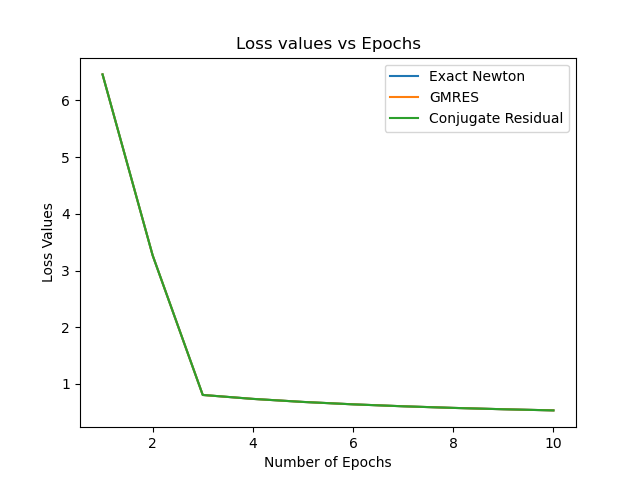
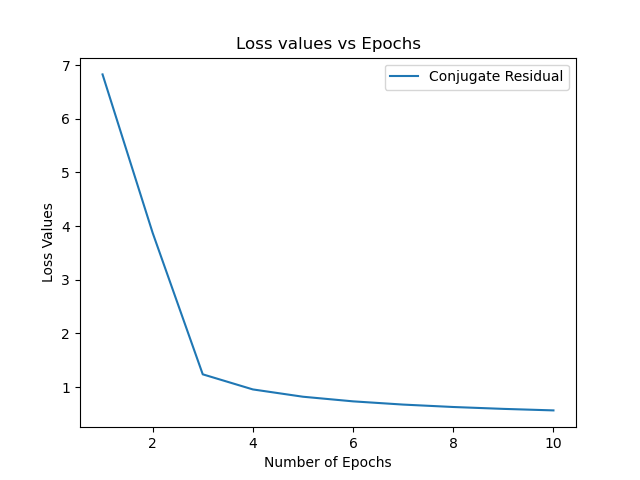
rerun loss computations

diff --git a/convex_model/a9a_analysis.py b/convex_model/a9a_analysis.py
@@ -248,8 +248,12 @@ class A9A_Analysis:
     
 
     def plot_losses_or_accuracies_all_newton_methods(self, filename, num_epochs, init_w, plot_losses=True):
-        newton_methods = {'Exact Newton': self.newton_method_exact, 'GMRES': 
-        self.gmres, 'Conjugate Residual': self.conjugate_residual}
+        # newton_methods = {'Exact Newton': self.newton_method_exact, 'GMRES': 
+        # self.gmres, 'Conjugate Residual': self.conjugate_residual}
+
+        newton_methods = {'Exact Newton' :self.newton_method_exact}
+        #newton_methods={'GMRES': self.gmres}
+        #newton_methods={'Conjugate Residual':self.conjugate_residual}
 
         for newton_method_name, newton_method in newton_methods.items():
             _, loss_vals, accuracy_vals, _ = newton_method(num_epochs)
@@ -327,8 +331,8 @@ if __name__ == "__main__":
     a9a_dataset_train, labels_train = helpers.read_a9a_dataset('../data/a9a_train.txt')
     a9a_dataset_test, labels_test = helpers.read_a9a_dataset('../data/a9a_test.txt')
 
-    init_w = torch.rand(a9a_dataset_train.shape[0])
-    torch.save(init_w, 'model_weights/initial_weight_vector.pt')
+    #init_w = torch.rand(a9a_dataset_train.shape[0])
+    #torch.save(init_w, 'model_weights/initial_weight_vector.pt')
     a9a = A9A_Analysis(a9a_dataset_train, labels_train, a9a_dataset_test, labels_test)
     # init_w = torch.rand(a9a.X.shape[0])
     
@@ -341,13 +345,13 @@ if __name__ == "__main__":
     # v = torch.randn(124)
 
     # print(a9a.hessian_vector_product(w, v))
-    wall_clock_times = a9a.measure_wall_clock_time_all_newton_methods(10)
+    #wall_clock_times = a9a.measure_wall_clock_time_all_newton_methods(10)
     #print(wall_clock_times)
 
     #print(torch.autograd.functional.hessian(a9a.l2_regularized_logistic_regression_loss, torch.ones(124)))
     
     
-    #a9a.plot_losses_or_accuracies_all_newton_methods('loss_vals.png', 10, init_w, True)
+    a9a.plot_losses_or_accuracies_all_newton_methods('loss_vals.png', 10, True)
     #a9a.plot_losses_or_accuracies_all_newton_methods('accuracy_vals.png', 10, False)
     #a9a.plot_suboptimality_all_newton_methods('suboptimality.png', 10, init_w)
 
